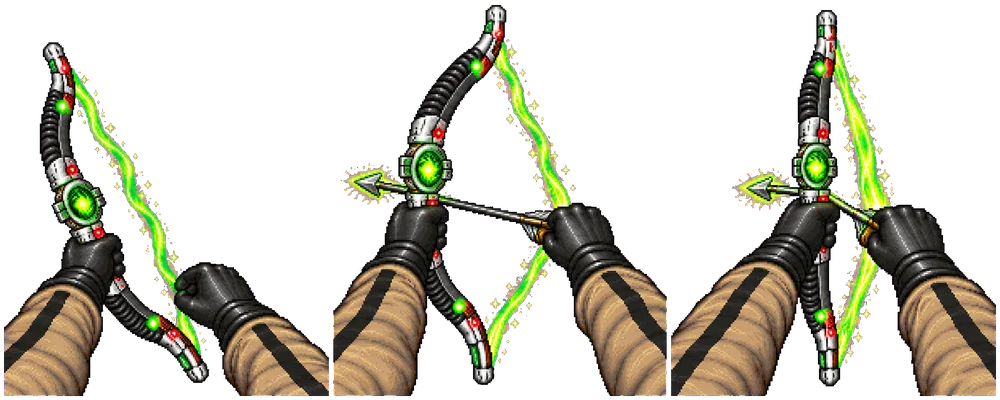
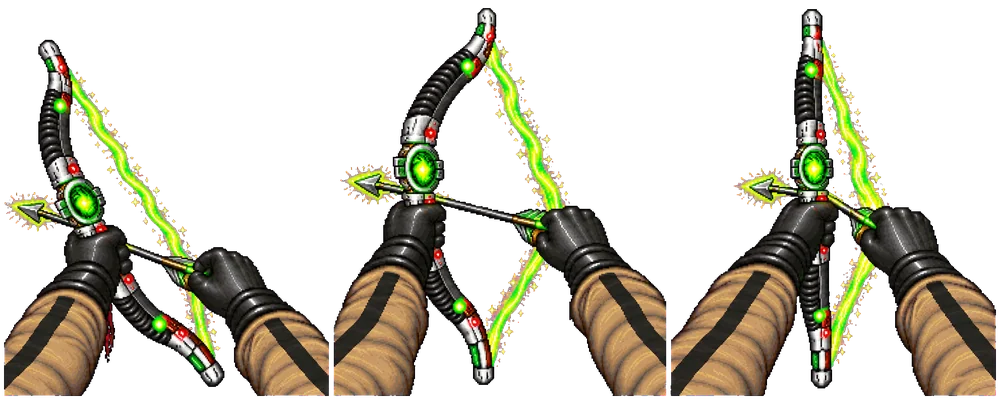
NOSTOS: los seis arcos calcados del original y todo desbloqueado
Los cinco arcos que faltaban se regeneraron con la silueta del arco original como
molde, igual que el de fontanero, asi que ya comparten pose y geometria.

Escala por arco calculada midiendo su masa de pixeles contra la del arco normal
(30.2 %), para que ninguno tape mas pantalla que otro: fontanero 0.96, sierra 0.95,
portal 0.98, fantasma 0.94, sable 0.95, abismo 0.97.

Todo queda desbloqueado de fabrica: los seis arcos en PERSONAJE y los 27 articulos de
GLORIA, que ahora se ponen y se quitan sin pagar. Las misiones y sus contadores siguen
existiendo; solo se dejo de exigirlas.

Changed region(s): [[0.0, 0.0, 1.0, 0.99]]

diff --git a/nostos/src/main.js b/nostos/src/main.js
@@ -1,27 +1,27 @@
 import * as THREE from 'three';
-import { NIVEL_PRUEBA, construir, CELDA } from './mapa.js?v=20260907191329';
-import { Jugador } from './jugador.js?v=20260907191329';
-import { Enemigo, TIPOS } from './enemigos.js?v=20260907191329';
-import { cortarTira, cortarRejilla, cargarImagen, recorteEntero, recorteSuperior, recorteInferior, Billboard } from './sprites.js?v=20260907191329';
-import { Objeto, CATALOGO } from './objetos.js?v=20260907191329';
-import { Rondas } from './rondas.js?v=20260907191329';
-import { Tienda, porId, MEJORAS, CONSUMIBLES } from './tienda.js?v=20260907191329';
-import { RELIQUIAS, porReliquia } from './reliquias.js?v=20260907191329';
-import { TINTES, COLORES, MIRAS, leer, guardar, aplicar } from './apariencia.js?v=20260907191329';
-import { MODOS, MEJORAS_MERCADER, OBJETOS as OBJETOS_GLORIA, ESTILOS, LIMITE_OBJETOS, TODO as TODO_GLORIA, estado as estadoGloria, guardar as guardarGloria, activo as modoActivo } from './gloria.js?v=20260907191329';
-import { Minimapa, Marcas } from './minimapa.js?v=20260907191329';
-import { Flujo } from './flujo.js?v=20260907191329';
-import { Portales, trazar } from './portales.js?v=20260907191329';
-import { romper } from './mapa.js?v=20260907191329';
-import { Audio } from './audio.js?v=20260907191329';
-import { OtroLado } from './otrolado.js?v=20260907191329';
-import { Grieta } from './grieta.js?v=20260907191329';
-import { Director } from './director.js?v=20260907191329';
-import { Cerco } from './cerco.js?v=20260907191329';
-import { esTactil, esTelefono, Tactil } from './tactil.js?v=20260907191329';
-import { TIPOS as T } from './enemigos.js?v=20260907191329';
-import { siluetaCiclope } from './texturas.js?v=20260907191329';
-import { Misiones, ARCOS } from './misiones.js?v=20260907191329';
+import { NIVEL_PRUEBA, construir, CELDA } from './mapa.js?v=20260907192332';
+import { Jugador } from './jugador.js?v=20260907192332';
+import { Enemigo, TIPOS } from './enemigos.js?v=20260907192332';
+import { cortarTira, cortarRejilla, cargarImagen, recorteEntero, recorteSuperior, recorteInferior, Billboard } from './sprites.js?v=20260907192332';
+import { Objeto, CATALOGO } from './objetos.js?v=20260907192332';
+import { Rondas } from './rondas.js?v=20260907192332';
+import { Tienda, porId, MEJORAS, CONSUMIBLES } from './tienda.js?v=20260907192332';
+import { RELIQUIAS, porReliquia } from './reliquias.js?v=20260907192332';
+import { TINTES, COLORES, MIRAS, leer, guardar, aplicar } from './apariencia.js?v=20260907192332';
+import { MODOS, MEJORAS_MERCADER, OBJETOS as OBJETOS_GLORIA, ESTILOS, LIMITE_OBJETOS, TODO as TODO_GLORIA, TODO_GRATIS, estado as estadoGloria, guardar as guardarGloria, activo as modoActivo, tiene as tieneGloria } from './gloria.js?v=20260907192332';
+import { Minimapa, Marcas } from './minimapa.js?v=20260907192332';
+import { Flujo } from './flujo.js?v=20260907192332';
+import { Portales, trazar } from './portales.js?v=20260907192332';
+import { romper } from './mapa.js?v=20260907192332';
+import { Audio } from './audio.js?v=20260907192332';
+import { OtroLado } from './otrolado.js?v=20260907192332';
+import { Grieta } from './grieta.js?v=20260907192332';
+import { Director } from './director.js?v=20260907192332';
+import { Cerco } from './cerco.js?v=20260907192332';
+import { esTactil, esTelefono, Tactil } from './tactil.js?v=20260907192332';
+import { TIPOS as T } from './enemigos.js?v=20260907192332';
+import { siluetaCiclope } from './texturas.js?v=20260907192332';
+import { Misiones, ARCOS } from './misiones.js?v=20260907192332';
 
 const ESCALA_RETRO = 3.2;
 const lienzo = document.getElementById('lienzo');
@@ -131,12 +131,12 @@ let destelloGuante = 0;
 let texturasNivel = null;
 
 const ARCOS_HOJA = [
-  ['arcoFontanero', './arte/crudo/arco-fontanero.webp?v=20260907191329'],
-  ['arcoSierra', './arte/crudo/arco-sierra.webp?v=20260907191329'],
-  ['arcoPortal', './arte/crudo/arco-portal.webp?v=20260907191329'],
-  ['arcoFantasma', './arte/crudo/arco-fantasma.webp?v=20260907191329'],
-  ['arcoSable', './arte/crudo/arco-sable.webp?v=20260907191329'],
-  ['arcoAbismo', './arte/crudo/arco-abismo.webp?v=20260907191329']
+  ['arcoFontanero', './arte/crudo/arco-fontanero.webp?v=20260907192332'],
+  ['arcoSierra', './arte/crudo/arco-sierra.webp?v=20260907192332'],
+  ['arcoPortal', './arte/crudo/arco-portal.webp?v=20260907192332'],
+  ['arcoFantasma', './arte/crudo/arco-fantasma.webp?v=20260907192332'],
+  ['arcoSable', './arte/crudo/arco-sable.webp?v=20260907192332'],
+  ['arcoAbismo', './arte/crudo/arco-abismo.webp?v=20260907192332']
 ];
 
 function cargarArcos() {
@@ -152,44 +152,44 @@ function cargarArcos() {
 async function cargarArte() {
   const [idle, atk, die, bow, muros, cosas, mercancia, pIdle, pAtk, pDie, horn, viejo, rostros, mano, reliquias, cordel, asta, hachaImg, picoImg, manoImg, fuegoImg, medallas, cuchilloImg, tajoImg, vueloImg, kTajoImg, cicRayo, cicLanza, cicCuchillo, cicFuego, cicHacha, cicBomba, fichasImg,
     polIdle, polAtk, polDie, bombaMano, bombaPeg] = await Promise.all([
-    cargarImagen('./arte/crudo/ciclope.webp?v=20260907191329'),
-    cargarImagen('./arte/crudo/ciclope-ataca.webp?v=20260907191329'),
-    cargarImagen('./arte/crudo/ciclope-muere.webp?v=20260907191329'),
-    cargarImagen('./arte/crudo/arco.webp?v=20260907191329'),
-    cargarImagen('./arte/crudo/texturas.webp?v=20260907191329'),
-    cargarImagen('./arte/crudo/items.webp?v=20260907191329'),
-    cargarImagen('./arte/crudo/tienda.webp?v=20260907191329'),
-    cargarImagen('./arte/crudo/pretendiente.webp?v=20260907191329'),
-    cargarImagen('./arte/crudo/pretendiente-ataca.webp?v=20260907191329'),
-    cargarImagen('./arte/crudo/pretendiente-muere.webp?v=20260907191329'),
-    cargarImagen('./arte/crudo/cuerno.webp?v=20260907191329'),
-    cargarImagen('./arte/crudo/mercader.webp?v=20260907191329'),
-    cargarImagen('./arte/crudo/caras.webp?v=20260907191329'),
-    cargarImagen('./arte/crudo/guante.webp?v=20260907191329'),
-    cargarImagen('./arte/crudo/objetos2.webp?v=20260907191329'),
-    cargarImagen('./arte/crudo/hilo.webp?v=20260907191329'),
-    cargarImagen('./arte/crudo/jabalina.webp?v=20260907191329'),
-    cargarImagen('./arte/crudo/hacha.webp?v=20260907191329'),
-    cargarImagen('./arte/crudo/pico.webp?v=20260907191329'),
-    cargarImagen('./arte/crudo/mano.webp?v=20260907191329'),
-    cargarImagen('./arte/crudo/fuego.webp?v=20260907191329'),
-    cargarImagen('./arte/crudo/insignias.webp?v=20260907191329'),
-    cargarImagen('./arte/crudo/cuchillo.webp?v=20260907191329'),
-    cargarImagen('./arte/crudo/hacha-tajo.webp?v=20260907191329'),
-    cargarImagen('./arte/crudo/hacha-vuelo.webp?v=20260907191329'),
-    cargarImagen('./arte/crudo/cuchillo-tajo.webp?v=20260907191329'),
-    cargarImagen('./arte/crudo/ciclope-rayo.webp?v=20260907191329'),
-    cargarImagen('./arte/crudo/ciclope-lanza.webp?v=20260907191329'),
-    cargarImagen('./arte/crudo/ciclope-cuchillo.webp?v=20260907191329'),
-    cargarImagen('./arte/crudo/ciclope-fuego.webp?v=20260907191329'),
-    cargarImagen('./arte/crudo/ciclope-hacha.webp?v=20260907191329'),
-    cargarImagen('./arte/crudo/ciclope-bomba.webp?v=20260907191329'),
-    cargarImagen('./arte/crudo/fichas.webp?v=20260907191329'),
-    cargarImagen('./arte/crudo/polifemo.webp?v=20260907191329'),
-    cargarImagen('./arte/crudo/polifemo-ataca.webp?v=20260907191329'),
-    cargarImagen('./arte/crudo/polifemo-muere.webp?v=20260907191329'),
-    cargarImagen('./arte/crudo/bomba.webp?v=20260907191329'),
-    cargarImagen('./arte/crudo/bomba-pegada.webp?v=20260907191329')
+    cargarImagen('./arte/crudo/ciclope.webp?v=20260907192332'),
+    cargarImagen('./arte/crudo/ciclope-ataca.webp?v=20260907192332'),
+    cargarImagen('./arte/crudo/ciclope-muere.webp?v=20260907192332'),
+    cargarImagen('./arte/crudo/arco.webp?v=20260907192332'),
+    cargarImagen('./arte/crudo/texturas.webp?v=20260907192332'),
+    cargarImagen('./arte/crudo/items.webp?v=20260907192332'),
+    cargarImagen('./arte/crudo/tienda.webp?v=20260907192332'),
+    cargarImagen('./arte/crudo/pretendiente.webp?v=20260907192332'),
+    cargarImagen('./arte/crudo/pretendiente-ataca.webp?v=20260907192332'),
+    cargarImagen('./arte/crudo/pretendiente-muere.webp?v=20260907192332'),
+    cargarImagen('./arte/crudo/cuerno.webp?v=20260907192332'),
+    cargarImagen('./arte/crudo/mercader.webp?v=20260907192332'),
+    cargarImagen('./arte/crudo/caras.webp?v=20260907192332'),
+    cargarImagen('./arte/crudo/guante.webp?v=20260907192332'),
+    cargarImagen('./arte/crudo/objetos2.webp?v=20260907192332'),
+    cargarImagen('./arte/crudo/hilo.webp?v=20260907192332'),
+    cargarImagen('./arte/crudo/jabalina.webp?v=20260907192332'),
+    cargarImagen('./arte/crudo/hacha.webp?v=20260907192332'),
+    cargarImagen('./arte/crudo/pico.webp?v=20260907192332'),
+    cargarImagen('./arte/crudo/mano.webp?v=20260907192332'),
+    cargarImagen('./arte/crudo/fuego.webp?v=20260907192332'),
+    cargarImagen('./arte/crudo/insignias.webp?v=20260907192332'),
+    cargarImagen('./arte/crudo/cuchillo.webp?v=20260907192332'),
+    cargarImagen('./arte/crudo/hacha-tajo.webp?v=20260907192332'),
+    cargarImagen('./arte/crudo/hacha-vuelo.webp?v=20260907192332'),
+    cargarImagen('./arte/crudo/cuchillo-tajo.webp?v=20260907192332'),
+    cargarImagen('./arte/crudo/ciclope-rayo.webp?v=20260907192332'),
+    cargarImagen('./arte/crudo/ciclope-lanza.webp?v=20260907192332'),
+    cargarImagen('./arte/crudo/ciclope-cuchillo.webp?v=20260907192332'),
+    cargarImagen('./arte/crudo/ciclope-fuego.webp?v=20260907192332'),
+    cargarImagen('./arte/crudo/ciclope-hacha.webp?v=20260907192332'),
+    cargarImagen('./arte/crudo/ciclope-bomba.webp?v=20260907192332'),
+    cargarImagen('./arte/crudo/fichas.webp?v=20260907192332'),
+    cargarImagen('./arte/crudo/polifemo.webp?v=20260907192332'),
+    cargarImagen('./arte/crudo/polifemo-ataca.webp?v=20260907192332'),
+    cargarImagen('./arte/crudo/polifemo-muere.webp?v=20260907192332'),
+    cargarImagen('./arte/crudo/bomba.webp?v=20260907192332'),
+    cargarImagen('./arte/crudo/bomba-pegada.webp?v=20260907192332')
   ]);
 
   const quieto = idle ? cortarTira(idle, 4) : [0, 1, 2, 3].map(siluetaCiclope);
@@ -1787,7 +1787,7 @@ function panelGloria() {
   };
 
   const fila = art => {
-    const comprado = g.comprados.includes(art.id);
+    const comprado = tieneGloria(art.id);
     const puesto = g.activos.includes(art.id);
     const esObjeto = OBJETOS_GLORIA.some(o => o.id === art.id);
     const tope = esObjeto && !puesto && objetosPuestos >= LIMITE_OBJETOS;
@@ -1805,7 +1805,7 @@ function panelGloria() {
   };
 
   abrirPanel(`<h3>GLORIA</h3>
-    <span class="bolsa">TE QUEDAN ${Math.max(0, disponible)} DE GLORIA</span>
+    <span class="bolsa">${TODO_GRATIS ? 'TODO DESBLOQUEADO · SOLO PONLO Y QUITALO' : 'TE QUEDAN ' + Math.max(0, disponible) + ' DE GLORIA'}</span>
     <h4>MODOS — cambian toda la partida</h4><table>${MODOS.map(fila).join('')}</table>
     <h4>ARMAS DESDE EL INICIO — puedes llevar ${LIMITE_OBJETOS} a la vez (${objetosPuestos}/${LIMITE_OBJETOS})</h4><table>${OBJETOS_GLORIA.map(fila).join('')}</table>
     <h4>EL MERCADER — para siempre</h4><table>${MEJORAS_MERCADER.map(fila).join('')}</table>

diff --git a/nostos/src/misiones.js b/nostos/src/misiones.js
@@ -2,22 +2,22 @@ const LLAVE = 'nostos.misiones';
 
 export const ARCOS = [
   { id: 'fontanero', hoja: 'arcoFontanero', nombre: 'ARCO DE FONTANERO',
-    mision: 'muros', meta: 0, gratis: true, escala: 0.95,
-    pista: 'Es tuyo desde el principio' },
+    mision: 'muros', meta: 100, gratis: true, escala: 0.96,
+    pista: 'Rompe 100 muros con el Pico de Hefesto' },
   { id: 'sierra', hoja: 'arcoSierra', nombre: 'ARCO DE LA SIERRA',
-    mision: 'bajas', meta: 300,
+    mision: 'bajas', meta: 300, gratis: true, escala: 0.95,
     pista: 'Acumula 300 bajas entre todas tus partidas' },
   { id: 'portal', hoja: 'arcoPortal', nombre: 'ARCO DEL PORTAL',
-    mision: 'portales', meta: 50,
+    mision: 'portales', meta: 50, gratis: true, escala: 0.98,
     pista: 'Cruza 50 portales con el Cuerno de Hermes' },
   { id: 'fantasma', hoja: 'arcoFantasma', nombre: 'ARCO CAZAFANTASMAS',
-    mision: 'otroLado', meta: 5,
+    mision: 'otroLado', meta: 5, gratis: true, escala: 0.94,
     pista: 'Sobrevive 5 rondas seguidas dentro del Otro Lado' },
   { id: 'sable', hoja: 'arcoSable', nombre: 'ARCO DE SABLE',
-    mision: 'victorias', meta: 1,
+    mision: 'victorias', meta: 1, gratis: true, escala: 0.95,
     pista: 'Gana la partida: mata a Polifemo' },
   { id: 'abismo', hoja: 'arcoAbismo', nombre: 'ARCO DEL ABISMO',
-    mision: 'bajasOtroLado', meta: 150,
+    mision: 'bajasOtroLado', meta: 150, gratis: true, escala: 0.97,
     pista: 'Mata 150 enemigos dentro del Otro Lado' }
 ];
 

diff --git a/nostos/src/gloria.js b/nostos/src/gloria.js
@@ -69,11 +69,13 @@ export function guardar(d) {
   try { localStorage.setItem(LLAVE, JSON.stringify(d)); } catch (e) {}
 }
 
+export const TODO_GRATIS = true;
+
 export function tiene(id) {
-  return estado().comprados.includes(id);
+  return TODO_GRATIS || estado().comprados.includes(id);
 }
 
 export function activo(id) {
   const e = estado();
-  return e.comprados.includes(id) && e.activos.includes(id);
+  return tiene(id) && e.activos.includes(id);
 }

diff --git a/nostos/src/enemigos.js b/nostos/src/enemigos.js
@@ -1,6 +1,6 @@
 import * as THREE from 'three';
-import { Billboard } from './sprites.js?v=20260907191329';
-import { CELDA, esSolido } from './mapa.js?v=20260907191329';
+import { Billboard } from './sprites.js?v=20260907192332';
+import { CELDA, esSolido } from './mapa.js?v=20260907192332';
 
 const RADIO = 1.6;
 const RANGO_VISTA = 70;

diff --git a/nostos/src/objetos.js b/nostos/src/objetos.js
@@ -1,5 +1,5 @@
 import * as THREE from 'three';
-import { Billboard } from './sprites.js?v=20260907191329';
+import { Billboard } from './sprites.js?v=20260907192332';
 
 export const CATALOGO = [
   { id: 'flechas',  celda: 0,  alto: 2.0, efecto: 'flechas',  valor: 10, aviso: '+10 FLECHAS' },

diff --git a/nostos/src/mapa.js b/nostos/src/mapa.js
@@ -1,6 +1,6 @@
 import * as THREE from 'three';
 import { mergeGeometries } from 'three/addons/utils/BufferGeometryUtils.js';
-import { banco } from './texturas.js?v=20260907191329';
+import { banco } from './texturas.js?v=20260907192332';
 
 export const CELDA = 4;
 export const ALTO = 10;

diff --git a/nostos/index.html b/nostos/index.html
@@ -387,6 +387,6 @@
       "three/addons/": "https://cdn.jsdelivr.net/npm/three@0.160.0/examples/jsm/"
   } }
   </script>
-  <script type="module" src="./src/main.js?v=20260907191329"></script>
+  <script type="module" src="./src/main.js?v=20260907192332"></script>
 </body>
 </html>

diff --git a/nostos/src/tienda.js b/nostos/src/tienda.js
@@ -1,4 +1,4 @@
-import { RELIQUIAS } from './reliquias.js?v=20260907191329';
+import { RELIQUIAS } from './reliquias.js?v=20260907192332';
 
 export const MEJORAS = [
   { id: 'cuerda', nombre: 'CUERDA DE TENDON', precio: 90, celda: 0, respaldo: 1,

diff --git a/nostos/src/portales.js b/nostos/src/portales.js
@@ -1,5 +1,5 @@
 import * as THREE from 'three';
-import { CELDA, ALTO, esSolido } from './mapa.js?v=20260907191329';
+import { CELDA, ALTO, esSolido } from './mapa.js?v=20260907192332';
 
 const ANCHO_PORTAL = 3.7;
 const ALTO_PORTAL = 5.5;

diff --git a/nostos/src/jugador.js b/nostos/src/jugador.js
@@ -1,5 +1,5 @@
 import * as THREE from 'three';
-import { CELDA, esSolido } from './mapa.js?v=20260907191329';
+import { CELDA, esSolido } from './mapa.js?v=20260907192332';
 
 const VELOCIDAD = 15;
 const VELOCIDAD_LATERAL = 12;

diff --git a/nostos/src/flujo.js b/nostos/src/flujo.js
@@ -1,4 +1,4 @@
-import { CELDA, esSolido } from './mapa.js?v=20260907191329';
+import { CELDA, esSolido } from './mapa.js?v=20260907192332';
 
 export class Flujo {
   constructor(nivel) {

diff --git a/nostos/src/cerco.js b/nostos/src/cerco.js
@@ -1,5 +1,5 @@
 import * as THREE from 'three';
-import { CELDA } from './mapa.js?v=20260907191329';
+import { CELDA } from './mapa.js?v=20260907192332';
 
 const LLAMAS = 46;
 
